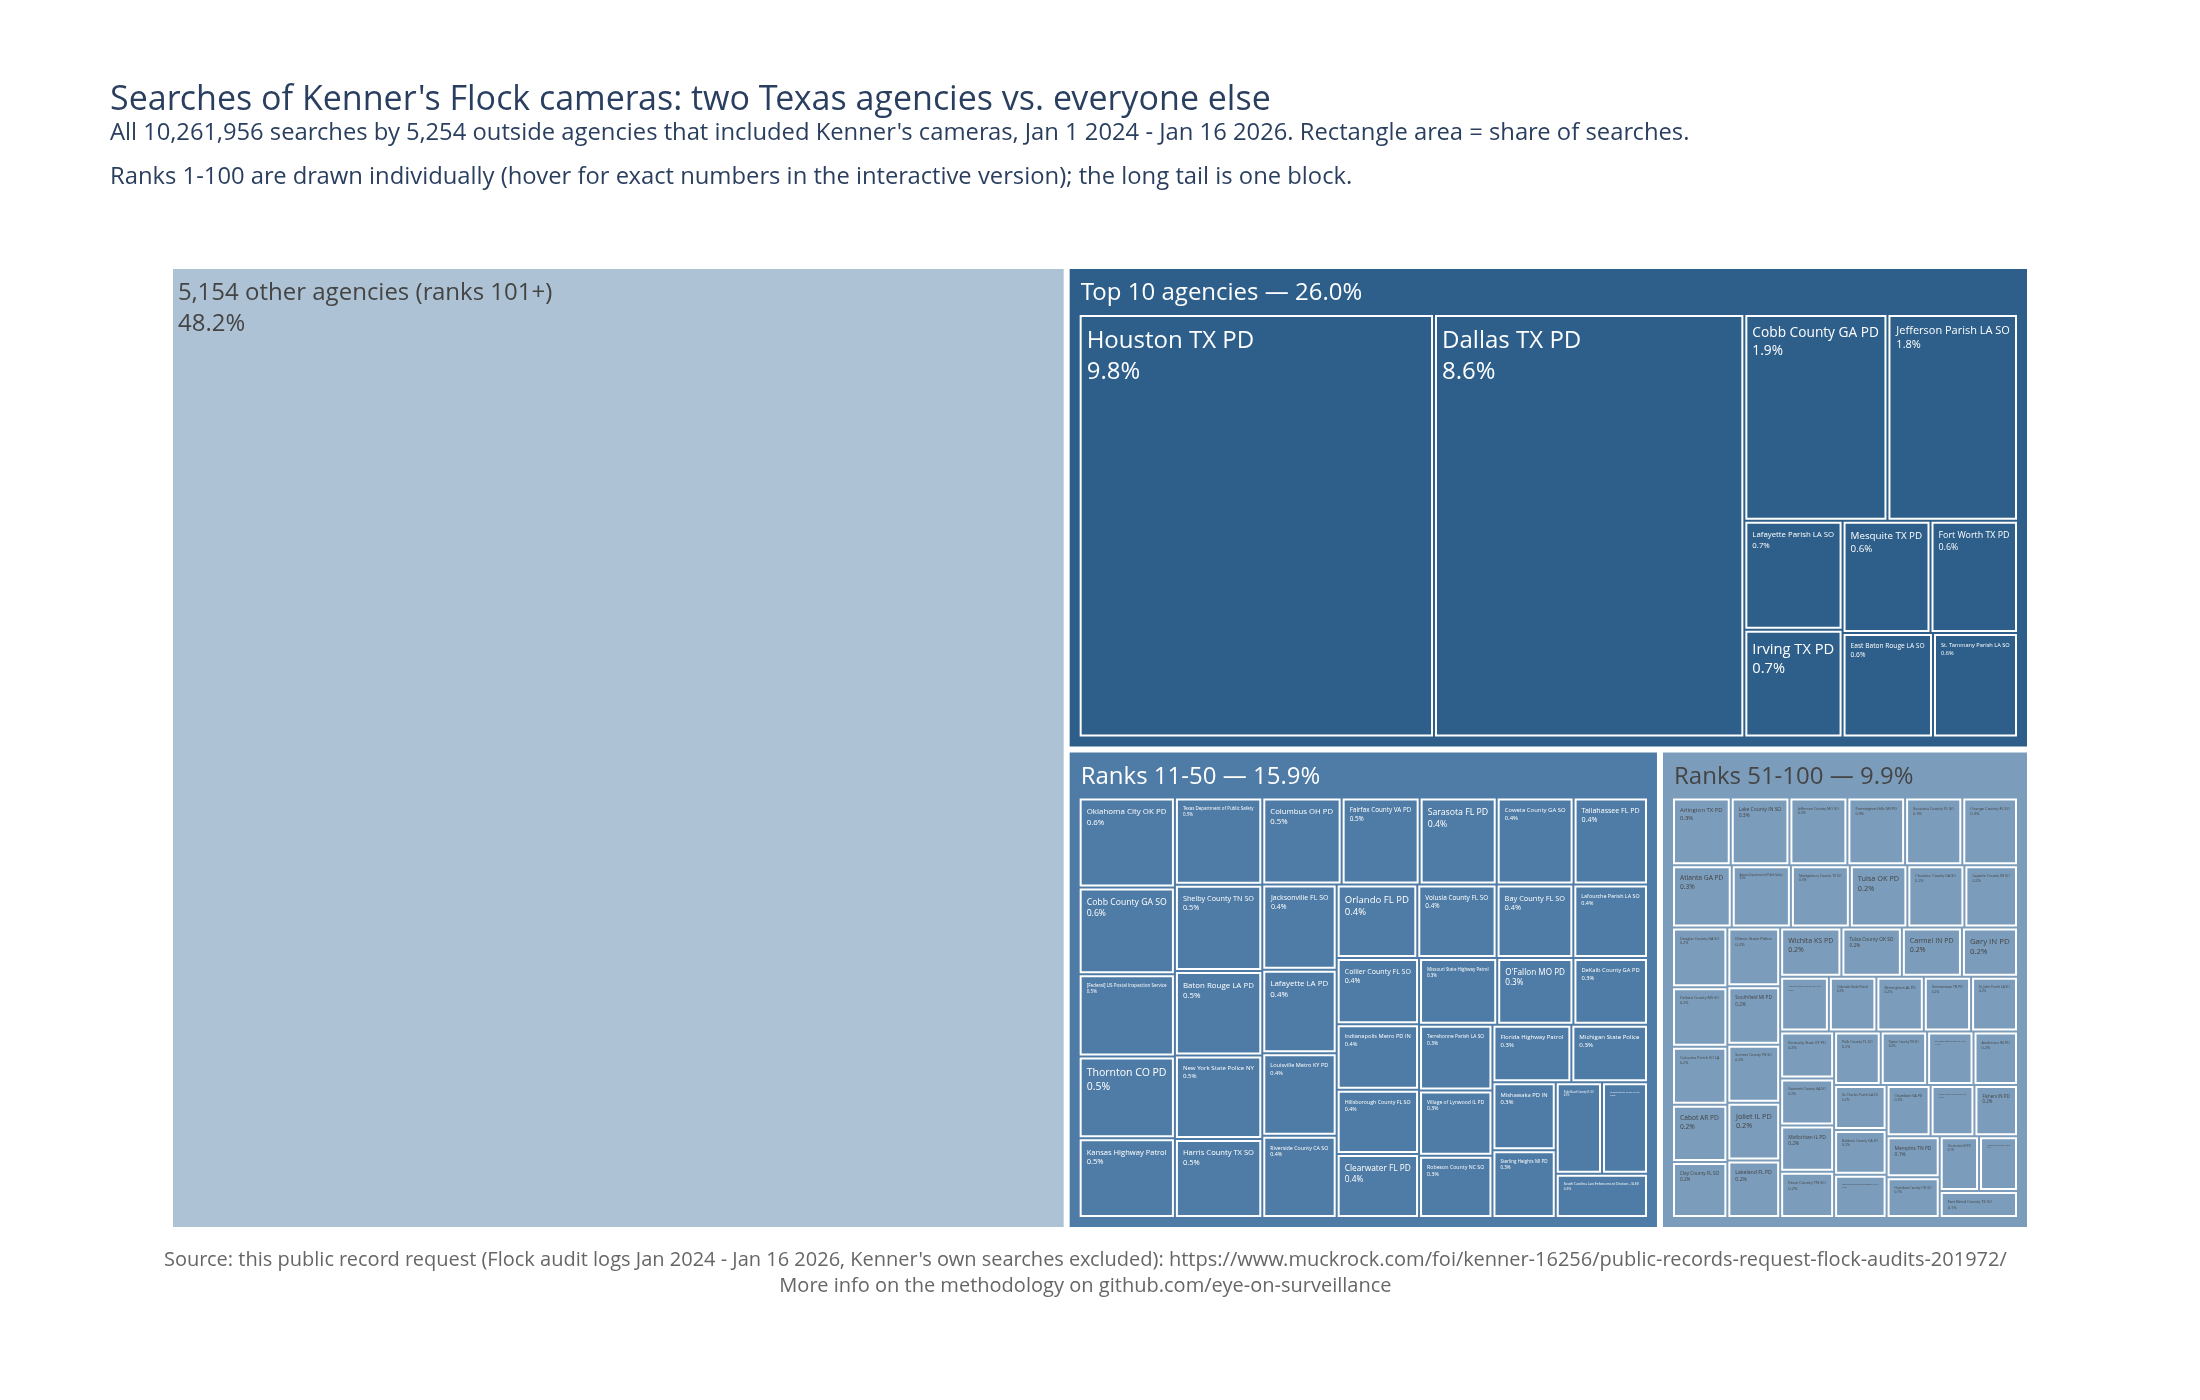
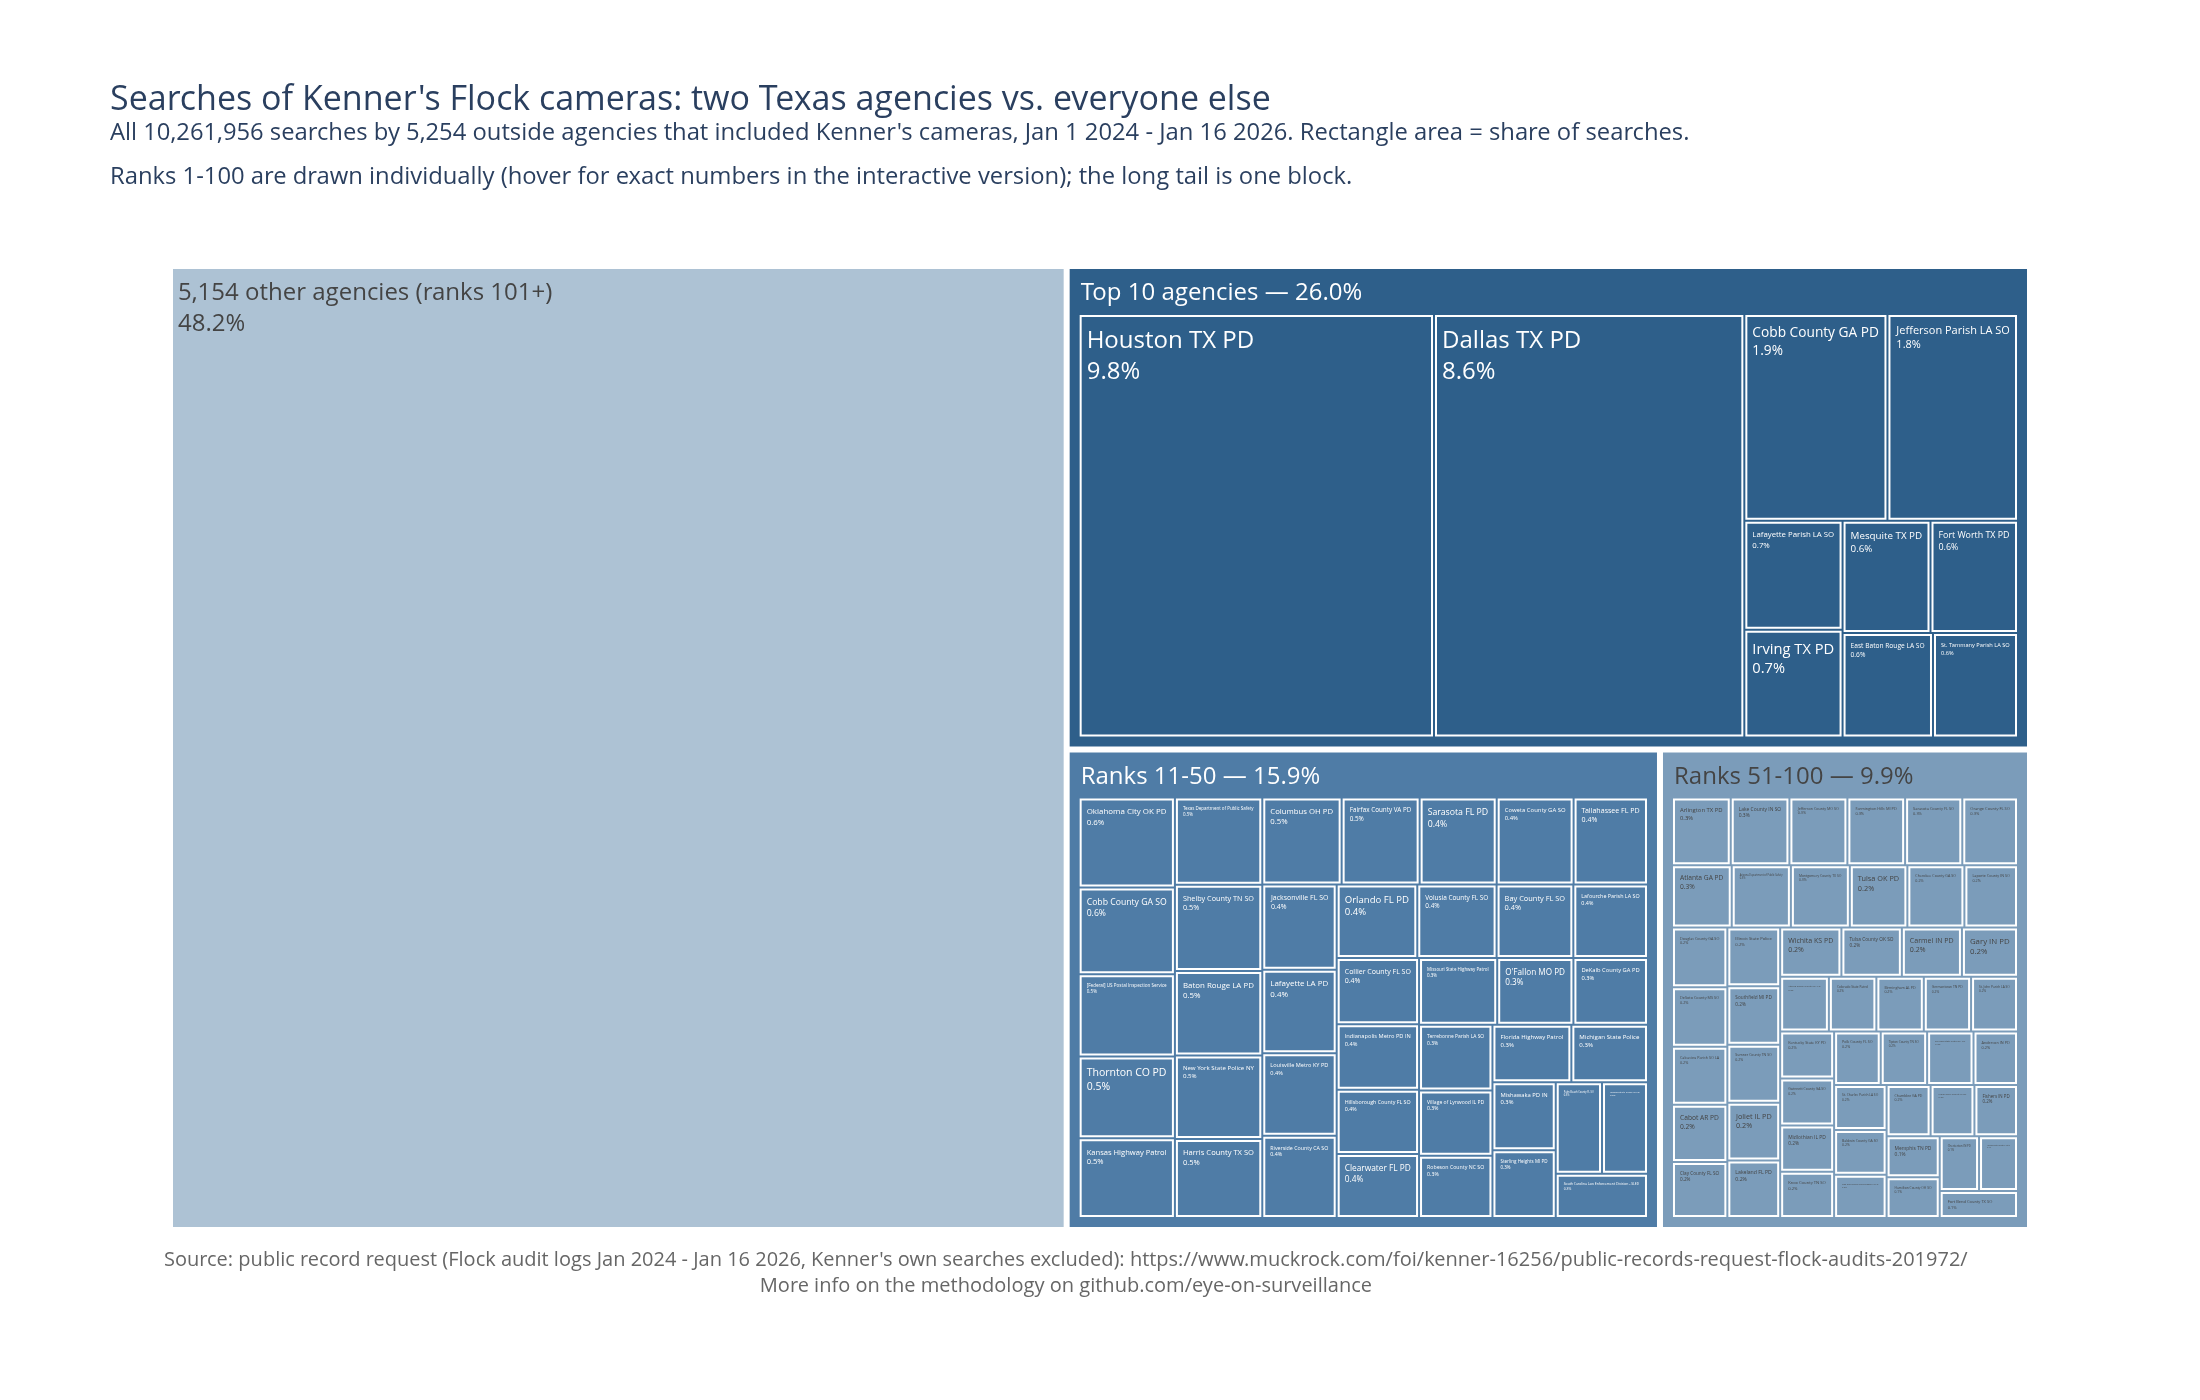
add a map of request provenance

Changed region(s): [[0.1236, 0.8907, 0.8964, 0.9214]]

diff --git a/results/searches-by-state/searches_by_state.py b/results/searches-by-state/searches_by_state.py
@@ -1,0 +1,313 @@
+# /// script
+# requires-python = ">=3.10"
+# dependencies = ["plotly", "kaleido"]
+# ///
+"""Map: searches of Kenner's Flock cameras, by the searching agency's state.
+
+Reads:  cache/flock.db  (build it with the setup-scripts/ pipeline first)
+Writes: next to this script, in results/searches-by-state/:
+        searches_by_state.html  (interactive, self-contained)
+        searches_by_state.svg
+        searches_by_state.png
+
+The database is the single source of data: one SQL query plus the
+state-detection rules below are the whole calculation, and the script
+prints the full per-state table, every ambiguous name, and every
+unattributed agency, so the map can be checked end to end.
+
+Run from anywhere:  uv run results/searches-by-state/searches_by_state.py
+(uv installs plotly and kaleido from the header above; see README.)
+
+How an agency's state is detected (ordered rules, first match wins).
+The export has no state column; the state is parsed from the agency
+name, `TRIM(org_name)`, Kenner's own rows excluded:
+
+1. Names starting with the literal prefix '[Federal]' are federal
+   agencies, not states: excluded from the map, counted in the footer.
+   (Only the bracket prefix counts: 'Federal Way WA PD' and 'Federal
+   Heights CO PD' are city agencies and fall through to rule 2.)
+2. Two-letter state-code token: last \\b-delimited uppercase match of
+   the 50 states + DC anywhere in the name ('Cobb County GA PD' -> GA).
+   Last-wins resolves 'CO' meaning "County" ('Blaine CO OK SO' -> OK).
+   Exception: a trailing 'SD' with a different code earlier means
+   "Sheriff's Department", not South Dakota -- take the earlier code
+   ('San Diego County CA SD' -> CA). Every name containing two
+   different codes is printed by this script.
+3. Full state name, case-insensitive, on word boundaries, longest name
+   first (so 'West Virginia' wins over 'Virginia', and 'Kansas' cannot
+   match inside 'Arkansas'): 'Kansas Highway Patrol' -> KS.
+4. Anything else stays UNATTRIBUTED -- deliberately no guessing and no
+   hand-maintained lookup table. These are mostly genuinely multi-state
+   bodies (regional intelligence centers, railroads, NCMEC) plus a few
+   ambiguous names; together 0.29% of searches. All are printed.
+
+This is a share-of-total chart, not a time series, so it uses the full
+data range including the partial last month (Jan 1 2024 - Jan 16 2026).
+The red dot marks Kenner, LA itself -- where the searched cameras are.
+
+Idempotent: re-running overwrites the three output files.
+"""
+
+import re
+import sqlite3
+import sys
+from pathlib import Path
+
+import plotly.graph_objects as go
+
+OUTPUT_DIR = Path(__file__).resolve().parent      # results/searches-by-state
+PROJECT_ROOT = OUTPUT_DIR.parent.parent
+DB_FILE = PROJECT_ROOT / "cache" / "flock.db"
+OUTPUT_BASENAME = "searches_by_state"
+
+# Known figures the detection must reproduce exactly (verified when this
+# graph was built); any drift fails the run instead of drawing a wrong map.
+EXPECTED_TOTAL = 10_261_956        # all searches by outside agencies
+EXPECTED_FEDERAL = 64_382          # rule 1
+EXPECTED_UNATTRIBUTED = 29_513     # rule 4
+EXPECTED_ATTRIBUTED = 10_168_061   # rules 2+3 (= total - federal - unattr.)
+EXPECTED_TX = 2_688_062            # largest state, sanity anchor
+
+STATES = {
+    "AL": "Alabama", "AK": "Alaska", "AZ": "Arizona", "AR": "Arkansas",
+    "CA": "California", "CO": "Colorado", "CT": "Connecticut",
+    "DE": "Delaware", "FL": "Florida", "GA": "Georgia", "HI": "Hawaii",
+    "ID": "Idaho", "IL": "Illinois", "IN": "Indiana", "IA": "Iowa",
+    "KS": "Kansas", "KY": "Kentucky", "LA": "Louisiana", "ME": "Maine",
+    "MD": "Maryland", "MA": "Massachusetts", "MI": "Michigan",
+    "MN": "Minnesota", "MS": "Mississippi", "MO": "Missouri",
+    "MT": "Montana", "NE": "Nebraska", "NV": "Nevada",
+    "NH": "New Hampshire", "NJ": "New Jersey", "NM": "New Mexico",
+    "NY": "New York", "NC": "North Carolina", "ND": "North Dakota",
+    "OH": "Ohio", "OK": "Oklahoma", "OR": "Oregon", "PA": "Pennsylvania",
+    "RI": "Rhode Island", "SC": "South Carolina", "SD": "South Dakota",
+    "TN": "Tennessee", "TX": "Texas", "UT": "Utah", "VT": "Vermont",
+    "VA": "Virginia", "WA": "Washington", "WV": "West Virginia",
+    "WI": "Wisconsin", "WY": "Wyoming", "DC": "District of Columbia",
+}
+CODE_RE = re.compile(r"\b(" + "|".join(STATES) + r")\b")
+# longest first, so 'West Virginia' is tried before 'Virginia'
+NAMES_LONGEST_FIRST = sorted(
+    ((name.upper(), code) for code, name in STATES.items()),
+    key=lambda pair: len(pair[0]), reverse=True)
+
+# Map legend classes: (lower bound, label, fill color). White = zero;
+# log-ish steps so Texas (2.69M) cannot wash out the small states.
+BINS = [
+    (0, "0", "#ffffff"),
+    (1, "1 - 10k", "#d4e2ee"),
+    (10_000, "10k - 100k", "#a9c6dd"),
+    (100_000, "100k - 500k", "#7b9cba"),
+    (500_000, "500k - 1M", "#4f7ca6"),
+    (1_000_000, "1M+", "#1f4e79"),
+]
+
+AGENCY_COUNTS = """
+SELECT TRIM(org_name) AS agency, COUNT(*) AS searches
+FROM network_audit
+WHERE org_name != 'Kenner LA PD'
+GROUP BY agency
+"""
+
+
+def detect_state(agency):
+    """Apply the ordered rules from the module docstring.
+
+    Returns ('FEDERAL', rule), (state_code, rule), or (None, 'unmatched').
+    """
+    if agency.startswith("[Federal]"):
+        return "FEDERAL", "1 federal prefix"
+    codes = CODE_RE.findall(agency)
+    if codes:
+        if codes[-1] == "SD" and any(c != "SD" for c in codes[:-1]):
+            # trailing 'SD' = "Sheriff's Department", not South Dakota
+            code = [c for c in codes if c != "SD"][-1]
+        else:
+            code = codes[-1]
+        return code, "2 code token"
+    upper = agency.upper()
+    for name, code in NAMES_LONGEST_FIRST:
+        if re.search(r"\b" + re.escape(name) + r"\b", upper):
+            return code, "3 state name"
+    return None, "unmatched"
+
+
+def bin_index(searches):
+    """Index into BINS for a state's search count."""
+    index = 0
+    for i, (lower, _, _) in enumerate(BINS):
+        if searches >= lower:
+            index = i
+    return index
+
+
+def build_figure(state_searches, state_agencies, total, federal, unattributed):
+    """Choropleth with one discrete color class per BINS entry."""
+    codes = sorted(STATES)
+    z = [bin_index(state_searches.get(c, 0)) for c in codes]
+    customdata = [
+        (STATES[c], state_searches.get(c, 0), state_agencies.get(c, 0),
+         100 * state_searches.get(c, 0) / total)
+        for c in codes
+    ]
+    # stepwise colorscale: each class is a flat color band
+    n = len(BINS)
+    colorscale = []
+    for i, (_, _, color) in enumerate(BINS):
+        colorscale += [(i / n, color), ((i + 1) / n, color)]
+
+    fig = go.Figure(go.Choropleth(
+        locations=codes, locationmode="USA-states",
+        z=z, zmin=-0.5, zmax=n - 0.5,
+        colorscale=colorscale,
+        marker_line_color="#999999", marker_line_width=0.7,
+        customdata=customdata,
+        hovertemplate="%{customdata[0]}<br>"
+                      "%{customdata[1]:,} searches"
+                      " (%{customdata[3]:.1f}% of all outside searches)<br>"
+                      "%{customdata[2]:,} agencies<extra></extra>",
+        colorbar=dict(
+            title=dict(text="Searches by<br>that state's<br>agencies"),
+            tickvals=list(range(n)),
+            ticktext=[label for _, label, _ in BINS],
+            len=0.7,
+        ),
+    ))
+
+    # Kenner itself: a red dot where the searched cameras actually are.
+    fig.add_trace(go.Scattergeo(
+        lon=[-90.2417], lat=[29.9941],
+        mode="markers+text",
+        marker=dict(size=9, color="#c0392b",
+                    line=dict(width=1.5, color="white")),
+        text=["Kenner"], textposition="bottom right",
+        textfont=dict(size=11, color="#c0392b"),
+        hovertemplate="Kenner, LA — the searched cameras<extra></extra>",
+        showlegend=False,
+    ))
+
+    fig.update_layout(
+        title=dict(
+            text="Who searches Kenner's Flock cameras: searches by the"
+                 " agency's home state"
+                 "<br><sup>10.26M searches by 5,254 outside agencies,"
+                 " Jan 1 2024 - Jan 16 2026. State parsed from the agency"
+                 " name (99.1% of searches attributed).</sup>"
+                 "<br><sup>Texas alone: 2.69M searches (26%), driven by"
+                 " Houston PD (1.01M) and Dallas PD (0.88M).</sup>",
+        ),
+        geo=dict(scope="usa", lakecolor="white"),
+        width=1000, height=650,
+        margin=dict(t=110, b=110),
+    )
+    fig.add_annotation(
+        text="Source: public record request (Flock audit logs"
+             " Jan 2024 - Jan 16 2026, Kenner's own searches excluded):"
+             '<br><a href="https://www.muckrock.com/foi/kenner-16256/'
+             'public-records-request-flock-audits-201972/">'
+             "https://www.muckrock.com/foi/kenner-16256/"
+             "public-records-request-flock-audits-201972/</a>"
+             f"<br>Not on the map: 13 federal agencies ({federal:,}"
+             f" searches) and 40 multi-state or unidentifiable agencies"
+             f" ({unattributed:,} searches, 0.3%)."
+             "<br>More info on the methodology on"
+             ' <a href="https://github.com/eye-on-surveillance/'
+             'foia-flock-kenner">github.com/eye-on-surveillance</a>',
+        xref="paper", yref="paper", x=0, y=-0.16,
+        showarrow=False, font=dict(size=10, color="#666"),
+    )
+    return fig
+
+
+def main():
+    if not DB_FILE.exists():
+        print(f"ERROR: {DB_FILE} not found."
+              "\nRun the setup-scripts/ pipeline (00, 01_*, 02) first.",
+              file=sys.stderr)
+        sys.exit(1)
+
+    connection = sqlite3.connect(DB_FILE)
+    rows = connection.execute(AGENCY_COUNTS).fetchall()
+    connection.close()
+
+    state_searches, state_agencies = {}, {}
+    federal = unattributed = 0
+    rule_agencies, rule_searches = {}, {}
+    multi_code, unmatched_list = [], []
+    for agency, count in rows:
+        state, rule = detect_state(agency)
+        rule_agencies[rule] = rule_agencies.get(rule, 0) + 1
+        rule_searches[rule] = rule_searches.get(rule, 0) + count
+        if len(set(CODE_RE.findall(agency))) > 1:
+            multi_code.append((agency, state))
+        if state == "FEDERAL":
+            federal += count
+        elif state is None:
+            unattributed += count
+            unmatched_list.append((count, agency))
+        else:
+            state_searches[state] = state_searches.get(state, 0) + count
+            state_agencies[state] = state_agencies.get(state, 0) + 1
+
+    total = sum(count for _, count in rows)
+    attributed = sum(state_searches.values())
+
+    # Verification: the detection must reproduce the known figures
+    # exactly -- otherwise the map silently drifted from the database.
+    print("Verification: detection result vs known figures")
+    checks = [
+        ("total searches", total, EXPECTED_TOTAL),
+        ("federal (rule 1)", federal, EXPECTED_FEDERAL),
+        ("state-attributed (rules 2+3)", attributed, EXPECTED_ATTRIBUTED),
+        ("unattributed (rule 4)", unattributed, EXPECTED_UNATTRIBUTED),
+        ("Texas", state_searches.get("TX", 0), EXPECTED_TX),
+    ]
+    all_ok = True
+    for label, got, expected in checks:
+        ok = got == expected
+        all_ok &= ok
+        print(f"  {label}: {got:,} expected {expected:,}"
+              f" {'OK' if ok else 'MISMATCH'}")
+    if not all_ok:
+        print("\nERROR: figures do not match; not writing outputs.",
+              file=sys.stderr)
+        sys.exit(1)
+
+    print("\nRule coverage (agencies / searches):")
+    for rule in sorted(rule_agencies):
+        print(f"  rule {rule}: {rule_agencies[rule]:,} agencies,"
+              f" {rule_searches[rule]:,} searches")
+
+    print("\nNames containing two different state codes (resolution):")
+    for agency, state in sorted(multi_code):
+        print(f"  -> {state}  {agency!r}")
+
+    print("\nPer-state table:")
+    print(f"  {'state':<6} {'searches':>10} {'agencies':>9}  bin")
+    for code in sorted(state_searches, key=state_searches.get, reverse=True):
+        searches = state_searches[code]
+        print(f"  {code:<6} {searches:>10,} {state_agencies[code]:>9,}"
+              f"  {BINS[bin_index(searches)][1]}")
+    zero_states = sorted(set(STATES) - set(state_searches))
+    print(f"  zero searches ({len(zero_states)}): {', '.join(zero_states)}")
+
+    print(f"\nUnattributed agencies ({len(unmatched_list)}):")
+    for count, agency in sorted(unmatched_list, reverse=True):
+        print(f"  {count:>7,}  {agency!r}")
+
+    fig = build_figure(state_searches, state_agencies, total,
+                       federal, unattributed)
+    html_path = OUTPUT_DIR / f"{OUTPUT_BASENAME}.html"
+    svg_path = OUTPUT_DIR / f"{OUTPUT_BASENAME}.svg"
+    png_path = OUTPUT_DIR / f"{OUTPUT_BASENAME}.png"
+    fig.write_html(html_path)                # self-contained interactive page
+    fig.write_image(svg_path)                # static, via kaleido
+    fig.write_image(png_path, scale=2)       # static, 2x resolution
+
+    print()
+    for path in (html_path, svg_path, png_path):
+        print(f"Wrote {path}")
+
+
+if __name__ == "__main__":
+    main()

diff --git a/results/agency-concentration/agency_concentration.py b/results/agency-concentration/agency_concentration.py
@@ -131,7 +131,7 @@ def build_figure(ranked, total):
         margin=dict(t=110, b=80),
     )
     fig.add_annotation(
-        text="Source: this public record request (Flock audit logs"
+        text="Source: public record request (Flock audit logs"
              " Jan 2024 - Jan 16 2026, Kenner's own searches excluded):"
              ' <a href="https://www.muckrock.com/foi/kenner-16256/'
              'public-records-request-flock-audits-201972/">'

diff --git a/results/federal-access-timeline/federal_access_timeline.py b/results/federal-access-timeline/federal_access_timeline.py
@@ -223,7 +223,7 @@ def build_figure(per_org):
         margin=dict(t=150, b=110),
     )
     fig.add_annotation(
-        text="Source: this public record request (Flock audit logs"
+        text="Source: public record request (Flock audit logs"
              " Jan 2024 - Jan 16 2026):"
              ' <a href="https://www.muckrock.com/foi/kenner-16256/'
              'public-records-request-flock-audits-201972/">'

diff --git a/results/internal-vs-network/internal_vs_network.py b/results/internal-vs-network/internal_vs_network.py
@@ -131,7 +131,7 @@ def build_figure(months, internal, external):
         margin=dict(b=130),
     )
     fig.add_annotation(
-        text="Source: this public record request (Flock audit logs, full"
+        text="Source: public record request (Flock audit logs, full"
              " months only Jan 2024 - Dec 2025):"
              '<br><a href="https://www.muckrock.com/foi/kenner-16256/'
              'public-records-request-flock-audits-201972/">'

diff --git a/results/README.md b/results/README.md
@@ -1,7 +1,7 @@
 # Usage of Kenner PD Flock Camera. 2024/2025
 
 This is an overview of the data analysis Eye On Surveillance ran over the result of a public records request, focused on the usage of Flock camera in Kenner, LA. 
-The raw data, as provided by Kenner PD, is accessible here() for your own examination. 
+The raw data, as provided by Kenner PD, is accessible [here](https://www.muckrock.com/foi/kenner-16256/public-records-request-flock-audits-201972/) for your own examination. 
 For conveniance, we aggregated the raw data in a small database. Our methodology is described at the root level of this repository. 
 
 The reader can examine how we got there, and redo those graph from scatch himself.
@@ -39,4 +39,14 @@ Numbers, interactive version, and methodology: [`agency-concentration/`](agency-
 
 5,254 outside agencies searched Kenner's cameras. Two of them, Houston TX PD (9.8%) and Dallas TX PD (8.6%), account for more searches than the next 48 agencies combined.
 The concentration is double-edged: the top 100 agencies represent 51.8% of the 10.26 million outside searches, but the long tail of 5,154 smaller agencies still adds up to 48.2%.
+
+## Where the searches come from
+
+[![Choropleth map: searches of Kenner's cameras by the agency's home state](searches-by-state/searches_by_state.png)](searches-by-state/searches_by_state.png)
+
+Numbers, interactive version, and methodology: [`searches-by-state/`](searches-by-state/)
+
+Agencies from 47 states plus Washington DC searched Kenner's cameras; only Alaska, Hawaii and Montana never did.
+Texas leads by far (2.69M searches, 26%, mostly Houston and Dallas PDs), followed by Georgia (1.09M), Florida, Louisiana and Illinois.
+The export has no state column: the state is parsed from the agency's name (two-letter code or full state name), which attributes 99.1% of the searches; the remaining 0.3% are multi-state bodies (regional intelligence centers, railroads, NCMEC) listed in the script's output.
 The median agency ran just 221 searches that touched Kenner's cameras over the two years.

diff --git a/README.MD b/README.MD
@@ -96,7 +96,7 @@ see `DATA_DICTIONARY.md` for detail.
 
 ## Aggregate the results to work with them
 
-One CSV per month is not practical. Step 01
+One CSV per month is not practical, Step 01
 aggregates each source into a single clean CSV in `cache/`, one line per
 record. Each script prints its own audit trail and exits with an error if
 any count is off; compare yours against the expected outputs below.